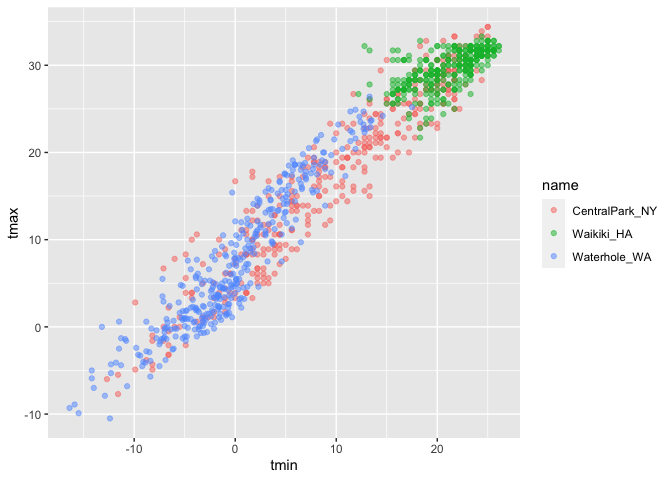
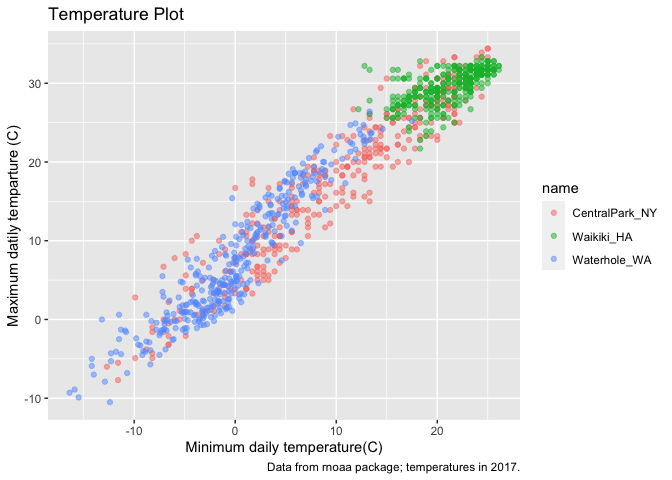
Scale_color_hue

diff --git a/Viz_I.md b/Viz_I.md
@@ -5,14 +5,14 @@ Visualization II
 library(tidyverse)
 ```
 
-    ## ── Attaching packages ─────────────── tidyverse 1.3.0 ──
+    ## ── Attaching packages ──────────────── tidyverse 1.3.0 ──
 
     ## ✓ ggplot2 3.3.2     ✓ purrr   0.3.4
     ## ✓ tibble  3.0.3     ✓ dplyr   1.0.2
     ## ✓ tidyr   1.1.2     ✓ stringr 1.4.0
     ## ✓ readr   1.3.1     ✓ forcats 0.5.0
 
-    ## ── Conflicts ────────────────── tidyverse_conflicts() ──
+    ## ── Conflicts ─────────────────── tidyverse_conflicts() ──
     ## x dplyr::filter() masks stats::filter()
     ## x dplyr::lag()    masks stats::lag()
 
@@ -98,14 +98,7 @@ weather_df %>%
 ``` r
 weather_df %>% 
     ggplot(aes(x = tmin, y = tmax, color=name)) +
-    geom_point(alpha=0.5)
-```
-
-    ## Warning: Removed 15 rows containing missing values (geom_point).
-
-![](Viz_I_files/figure-gfm/unnamed-chunk-4-1.png)<!-- -->
-
-``` r
+    geom_point(alpha=0.5) +
     labs(
         title = "Temperature Plot",
         x= "Minimum daily temperature(C)",
@@ -114,17 +107,54 @@ weather_df %>%
     )
 ```
 
-    ## $x
-    ## [1] "Minimum daily temperature(C)"
-    ## 
-    ## $y
-    ## [1] "Maximum datily temparture (C)"
-    ## 
-    ## $title
-    ## [1] "Temperature Plot"
-    ## 
-    ## $caption
-    ## [1] "Data from rnoaa package; temperatures in 2017."
-    ## 
-    ## attr(,"class")
-    ## [1] "labels"
+    ## Warning: Removed 15 rows containing missing values (geom_point).
+
+![](Viz_I_files/figure-gfm/unnamed-chunk-4-1.png)<!-- -->
+
+## Scales
+
+Start with the same plot; x and y scales.
+
+``` r
+weather_df %>% 
+    ggplot(aes(x = tmin, y = tmax, color=name)) +
+    geom_point(alpha=0.5) +
+    labs(
+        title = "Temperature Plot",
+        x= "Minimum daily temperature(C)",
+        y = "Maximum datily temparture (C)",
+        caption = "Data from rnoaa package; temperatures in 2017."
+    ) +
+  scale_x_continuous(
+    breaks = c(-15, 0, 15),
+    labels = c("-15 C","0","15")
+    ) +
+  scale_y_continuous(
+    position = "right"
+  )
+```
+
+    ## Warning: Removed 15 rows containing missing values (geom_point).
+
+![](Viz_I_files/figure-gfm/unnamed-chunk-5-1.png)<!-- -->
+
+Look at color scales.
+
+``` r
+weather_df %>% 
+    ggplot(aes(x = tmin, y = tmax, color=name)) +
+    geom_point(alpha=0.5) +
+    labs(
+        title = "Temperature Plot",
+        x= "Minimum daily temperature(C)",
+        y = "Maximum datily temparture (C)",
+        caption = "Data from rnoaa package; temperatures in 2017."
+    ) +
+  scale_color_hue(
+    name = "location",
+    h = c(100, 300))
+```
+
+    ## Warning: Removed 15 rows containing missing values (geom_point).
+
+![](Viz_I_files/figure-gfm/unnamed-chunk-6-1.png)<!-- -->
